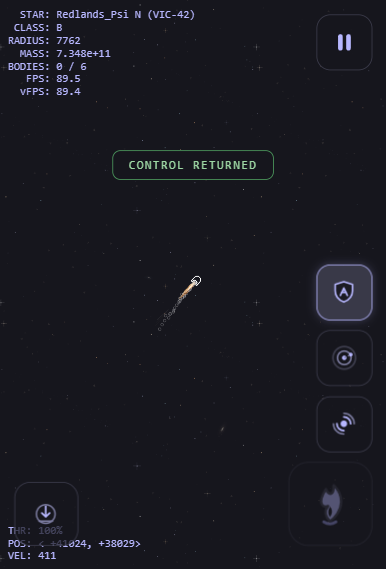
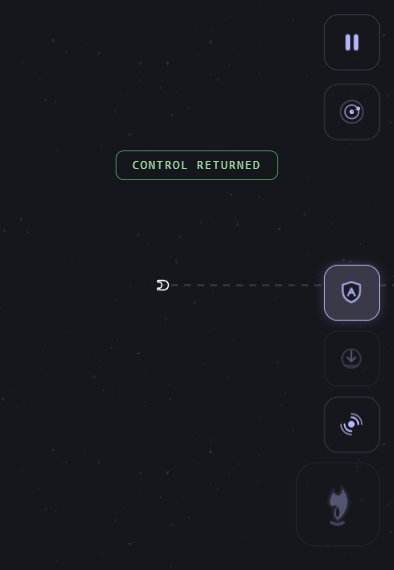
Batch 6 fix19: safety takeover physics (double thrust brake after swing, physics-first engage), WAD+W only, ship-anchored dual bars thin short, void damping+proportional fade, big opaque labels, asteroid squash collision+spin landing, landing assist armed button

diff --git a/src/app/MainActivity15.ts b/src/app/MainActivity15.ts
@@ -2221,6 +2221,7 @@ export function MainActivity15(topText: HTMLElement, bottomText: HTMLElement,
         safeButton?.classList.toggle("hold", on);
         safeEdge?.classList.toggle("active", on);
         if (!on) {
+            ship.thrustMultiplier = 1; // restore the normal engine
             playerTookControl = false;
             if (universe.impactThreat === null || ship.velocity.mag() <= 520) safeShowToast("CONTROL RETURNED");
         }
@@ -2247,7 +2248,7 @@ export function MainActivity15(topText: HTMLElement, bottomText: HTMLElement,
         const dwell = 900; // nose swing eats ~0.5-1s of margin
         const brakingSaves = brakeDist + dwell <= impactDist * 0.85;
         console.debug("[safe] gate tti=" + t.tti.toFixed(2) + " brakeDist=" + Math.round(brakeDist + dwell) + " impD=" + Math.round(impactDist * 0.85) + " saves=" + brakingSaves);
-        if (t.tti > 4.0 && brakingSaves) return;
+        if (t.tti > 5.0 && brakingSaves) return;
         const mode: "brake" | "evade" = brakingSaves ? "brake" : "evade";
         safeMode = mode;
         console.debug("[safe] ENGAGE " + mode);
@@ -2289,11 +2290,23 @@ export function MainActivity15(topText: HTMLElement, bottomText: HTMLElement,
         while (err < -PI) err += PI * 2;
         const maxTurn = 3.2 * dt; // emergency yaw is quick
         ship.angle += clamp(err, -maxTurn, maxTurn);
+        // THE BIGGEST SURVIVAL LEVER (user 2026-11-09 RAM-proof): during
+        // the takeover the brake uses a doubled engine (boost-grade) — the
+        // same burn the player gets from the burner, no speed cap fare.
+        ship.thrustMultiplier = 2;
         (ship as unknown as { steerMotor?: number }).steerMotor = maxTurn > 0 ? clamp(err / maxTurn, -1, 1) : 0;
-        ship.thrust.x = Math.cos(ship.angle);
-        ship.thrust.y = Math.sin(ship.angle);
+        // until the nose is aligned, thrust is ZERO (burning forward into the
+        // threat while swinging around used to eat the whole margin).
+        if (Math.abs(err) > 0.5) {
+            ship.thrust.x = 0;
+            ship.thrust.y = 0;
+        } else {
+            ship.thrust.x = Math.cos(ship.angle);
+            ship.thrust.y = Math.sin(ship.angle);
+        }
         playerTookControl = false;
     }
+    // (thrustMultiplier is reset inside setSafeHold on release)
     // ===== Landing assist (user 2026-11-09): the landing button works like
     // the scanner's gate — near a planet at low speed (<1000 m/s) it is
     // armed; a tap runs a smooth AUTOMATIC touchdown (brake, approach,
